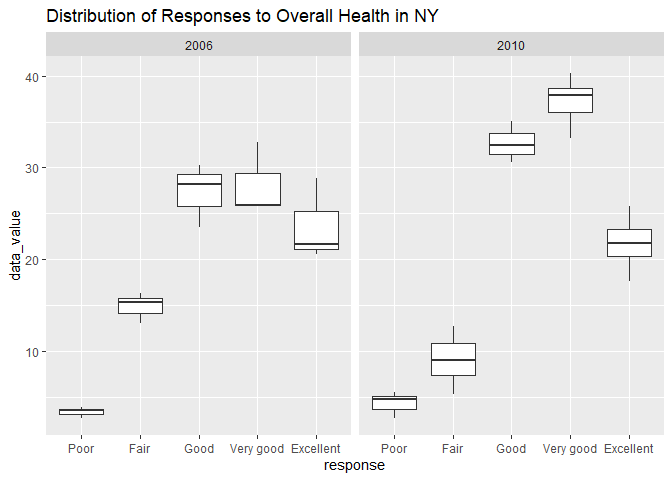
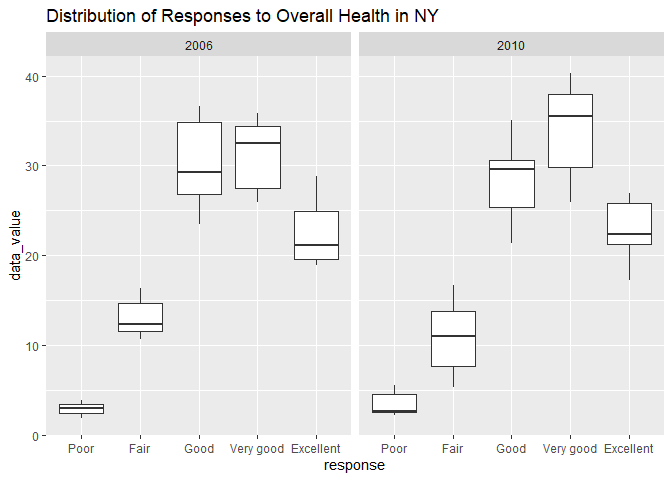
fixed descriptions

diff --git a/p8105_hw3_yo2336.md b/p8105_hw3_yo2336.md
@@ -322,16 +322,13 @@ year.
 
 ``` r
 overall_health %>%
-  filter(state == "NY", year == c(2006, 2010)) %>%
+  filter(state == "NY", year %in% c(2006, 2010)) %>%
   select(year, state, response, data_value) %>%
   ggplot(aes(x = response, y = data_value)) +
   geom_boxplot() +
   facet_grid(. ~ year) +
   labs(title = "Distribution of Responses to Overall Health in NY")
 ```
-
-    ## Warning in year == c(2006, 2010): longer object length is not a multiple of
-    ## shorter object length
 
 ![](p8105_hw3_yo2336_files/figure-gfm/unnamed-chunk-10-1.png)<!-- -->
 
@@ -379,372 +376,6 @@ ncol(accel_df)
 ```
 
     ## [1] 1444
-
-``` r
-names(accel_df)
-```
-
-    ##    [1] "week"          "day_id"        "day"           "week_type"    
-    ##    [5] "activity_1"    "activity_2"    "activity_3"    "activity_4"   
-    ##    [9] "activity_5"    "activity_6"    "activity_7"    "activity_8"   
-    ##   [13] "activity_9"    "activity_10"   "activity_11"   "activity_12"  
-    ##   [17] "activity_13"   "activity_14"   "activity_15"   "activity_16"  
-    ##   [21] "activity_17"   "activity_18"   "activity_19"   "activity_20"  
-    ##   [25] "activity_21"   "activity_22"   "activity_23"   "activity_24"  
-    ##   [29] "activity_25"   "activity_26"   "activity_27"   "activity_28"  
-    ##   [33] "activity_29"   "activity_30"   "activity_31"   "activity_32"  
-    ##   [37] "activity_33"   "activity_34"   "activity_35"   "activity_36"  
-    ##   [41] "activity_37"   "activity_38"   "activity_39"   "activity_40"  
-    ##   [45] "activity_41"   "activity_42"   "activity_43"   "activity_44"  
-    ##   [49] "activity_45"   "activity_46"   "activity_47"   "activity_48"  
-    ##   [53] "activity_49"   "activity_50"   "activity_51"   "activity_52"  
-    ##   [57] "activity_53"   "activity_54"   "activity_55"   "activity_56"  
-    ##   [61] "activity_57"   "activity_58"   "activity_59"   "activity_60"  
-    ##   [65] "activity_61"   "activity_62"   "activity_63"   "activity_64"  
-    ##   [69] "activity_65"   "activity_66"   "activity_67"   "activity_68"  
-    ##   [73] "activity_69"   "activity_70"   "activity_71"   "activity_72"  
-    ##   [77] "activity_73"   "activity_74"   "activity_75"   "activity_76"  
-    ##   [81] "activity_77"   "activity_78"   "activity_79"   "activity_80"  
-    ##   [85] "activity_81"   "activity_82"   "activity_83"   "activity_84"  
-    ##   [89] "activity_85"   "activity_86"   "activity_87"   "activity_88"  
-    ##   [93] "activity_89"   "activity_90"   "activity_91"   "activity_92"  
-    ##   [97] "activity_93"   "activity_94"   "activity_95"   "activity_96"  
-    ##  [101] "activity_97"   "activity_98"   "activity_99"   "activity_100" 
-    ##  [105] "activity_101"  "activity_102"  "activity_103"  "activity_104" 
-    ##  [109] "activity_105"  "activity_106"  "activity_107"  "activity_108" 
-    ##  [113] "activity_109"  "activity_110"  "activity_111"  "activity_112" 
-    ##  [117] "activity_113"  "activity_114"  "activity_115"  "activity_116" 
-    ##  [121] "activity_117"  "activity_118"  "activity_119"  "activity_120" 
-    ##  [125] "activity_121"  "activity_122"  "activity_123"  "activity_124" 
-    ##  [129] "activity_125"  "activity_126"  "activity_127"  "activity_128" 
-    ##  [133] "activity_129"  "activity_130"  "activity_131"  "activity_132" 
-    ##  [137] "activity_133"  "activity_134"  "activity_135"  "activity_136" 
-    ##  [141] "activity_137"  "activity_138"  "activity_139"  "activity_140" 
-    ##  [145] "activity_141"  "activity_142"  "activity_143"  "activity_144" 
-    ##  [149] "activity_145"  "activity_146"  "activity_147"  "activity_148" 
-    ##  [153] "activity_149"  "activity_150"  "activity_151"  "activity_152" 
-    ##  [157] "activity_153"  "activity_154"  "activity_155"  "activity_156" 
-    ##  [161] "activity_157"  "activity_158"  "activity_159"  "activity_160" 
-    ##  [165] "activity_161"  "activity_162"  "activity_163"  "activity_164" 
-    ##  [169] "activity_165"  "activity_166"  "activity_167"  "activity_168" 
-    ##  [173] "activity_169"  "activity_170"  "activity_171"  "activity_172" 
-    ##  [177] "activity_173"  "activity_174"  "activity_175"  "activity_176" 
-    ##  [181] "activity_177"  "activity_178"  "activity_179"  "activity_180" 
-    ##  [185] "activity_181"  "activity_182"  "activity_183"  "activity_184" 
-    ##  [189] "activity_185"  "activity_186"  "activity_187"  "activity_188" 
-    ##  [193] "activity_189"  "activity_190"  "activity_191"  "activity_192" 
-    ##  [197] "activity_193"  "activity_194"  "activity_195"  "activity_196" 
-    ##  [201] "activity_197"  "activity_198"  "activity_199"  "activity_200" 
-    ##  [205] "activity_201"  "activity_202"  "activity_203"  "activity_204" 
-    ##  [209] "activity_205"  "activity_206"  "activity_207"  "activity_208" 
-    ##  [213] "activity_209"  "activity_210"  "activity_211"  "activity_212" 
-    ##  [217] "activity_213"  "activity_214"  "activity_215"  "activity_216" 
-    ##  [221] "activity_217"  "activity_218"  "activity_219"  "activity_220" 
-    ##  [225] "activity_221"  "activity_222"  "activity_223"  "activity_224" 
-    ##  [229] "activity_225"  "activity_226"  "activity_227"  "activity_228" 
-    ##  [233] "activity_229"  "activity_230"  "activity_231"  "activity_232" 
-    ##  [237] "activity_233"  "activity_234"  "activity_235"  "activity_236" 
-    ##  [241] "activity_237"  "activity_238"  "activity_239"  "activity_240" 
-    ##  [245] "activity_241"  "activity_242"  "activity_243"  "activity_244" 
-    ##  [249] "activity_245"  "activity_246"  "activity_247"  "activity_248" 
-    ##  [253] "activity_249"  "activity_250"  "activity_251"  "activity_252" 
-    ##  [257] "activity_253"  "activity_254"  "activity_255"  "activity_256" 
-    ##  [261] "activity_257"  "activity_258"  "activity_259"  "activity_260" 
-    ##  [265] "activity_261"  "activity_262"  "activity_263"  "activity_264" 
-    ##  [269] "activity_265"  "activity_266"  "activity_267"  "activity_268" 
-    ##  [273] "activity_269"  "activity_270"  "activity_271"  "activity_272" 
-    ##  [277] "activity_273"  "activity_274"  "activity_275"  "activity_276" 
-    ##  [281] "activity_277"  "activity_278"  "activity_279"  "activity_280" 
-    ##  [285] "activity_281"  "activity_282"  "activity_283"  "activity_284" 
-    ##  [289] "activity_285"  "activity_286"  "activity_287"  "activity_288" 
-    ##  [293] "activity_289"  "activity_290"  "activity_291"  "activity_292" 
-    ##  [297] "activity_293"  "activity_294"  "activity_295"  "activity_296" 
-    ##  [301] "activity_297"  "activity_298"  "activity_299"  "activity_300" 
-    ##  [305] "activity_301"  "activity_302"  "activity_303"  "activity_304" 
-    ##  [309] "activity_305"  "activity_306"  "activity_307"  "activity_308" 
-    ##  [313] "activity_309"  "activity_310"  "activity_311"  "activity_312" 
-    ##  [317] "activity_313"  "activity_314"  "activity_315"  "activity_316" 
-    ##  [321] "activity_317"  "activity_318"  "activity_319"  "activity_320" 
-    ##  [325] "activity_321"  "activity_322"  "activity_323"  "activity_324" 
-    ##  [329] "activity_325"  "activity_326"  "activity_327"  "activity_328" 
-    ##  [333] "activity_329"  "activity_330"  "activity_331"  "activity_332" 
-    ##  [337] "activity_333"  "activity_334"  "activity_335"  "activity_336" 
-    ##  [341] "activity_337"  "activity_338"  "activity_339"  "activity_340" 
-    ##  [345] "activity_341"  "activity_342"  "activity_343"  "activity_344" 
-    ##  [349] "activity_345"  "activity_346"  "activity_347"  "activity_348" 
-    ##  [353] "activity_349"  "activity_350"  "activity_351"  "activity_352" 
-    ##  [357] "activity_353"  "activity_354"  "activity_355"  "activity_356" 
-    ##  [361] "activity_357"  "activity_358"  "activity_359"  "activity_360" 
-    ##  [365] "activity_361"  "activity_362"  "activity_363"  "activity_364" 
-    ##  [369] "activity_365"  "activity_366"  "activity_367"  "activity_368" 
-    ##  [373] "activity_369"  "activity_370"  "activity_371"  "activity_372" 
-    ##  [377] "activity_373"  "activity_374"  "activity_375"  "activity_376" 
-    ##  [381] "activity_377"  "activity_378"  "activity_379"  "activity_380" 
-    ##  [385] "activity_381"  "activity_382"  "activity_383"  "activity_384" 
-    ##  [389] "activity_385"  "activity_386"  "activity_387"  "activity_388" 
-    ##  [393] "activity_389"  "activity_390"  "activity_391"  "activity_392" 
-    ##  [397] "activity_393"  "activity_394"  "activity_395"  "activity_396" 
-    ##  [401] "activity_397"  "activity_398"  "activity_399"  "activity_400" 
-    ##  [405] "activity_401"  "activity_402"  "activity_403"  "activity_404" 
-    ##  [409] "activity_405"  "activity_406"  "activity_407"  "activity_408" 
-    ##  [413] "activity_409"  "activity_410"  "activity_411"  "activity_412" 
-    ##  [417] "activity_413"  "activity_414"  "activity_415"  "activity_416" 
-    ##  [421] "activity_417"  "activity_418"  "activity_419"  "activity_420" 
-    ##  [425] "activity_421"  "activity_422"  "activity_423"  "activity_424" 
-    ##  [429] "activity_425"  "activity_426"  "activity_427"  "activity_428" 
-    ##  [433] "activity_429"  "activity_430"  "activity_431"  "activity_432" 
-    ##  [437] "activity_433"  "activity_434"  "activity_435"  "activity_436" 
-    ##  [441] "activity_437"  "activity_438"  "activity_439"  "activity_440" 
-    ##  [445] "activity_441"  "activity_442"  "activity_443"  "activity_444" 
-    ##  [449] "activity_445"  "activity_446"  "activity_447"  "activity_448" 
-    ##  [453] "activity_449"  "activity_450"  "activity_451"  "activity_452" 
-    ##  [457] "activity_453"  "activity_454"  "activity_455"  "activity_456" 
-    ##  [461] "activity_457"  "activity_458"  "activity_459"  "activity_460" 
-    ##  [465] "activity_461"  "activity_462"  "activity_463"  "activity_464" 
-    ##  [469] "activity_465"  "activity_466"  "activity_467"  "activity_468" 
-    ##  [473] "activity_469"  "activity_470"  "activity_471"  "activity_472" 
-    ##  [477] "activity_473"  "activity_474"  "activity_475"  "activity_476" 
-    ##  [481] "activity_477"  "activity_478"  "activity_479"  "activity_480" 
-    ##  [485] "activity_481"  "activity_482"  "activity_483"  "activity_484" 
-    ##  [489] "activity_485"  "activity_486"  "activity_487"  "activity_488" 
-    ##  [493] "activity_489"  "activity_490"  "activity_491"  "activity_492" 
-    ##  [497] "activity_493"  "activity_494"  "activity_495"  "activity_496" 
-    ##  [501] "activity_497"  "activity_498"  "activity_499"  "activity_500" 
-    ##  [505] "activity_501"  "activity_502"  "activity_503"  "activity_504" 
-    ##  [509] "activity_505"  "activity_506"  "activity_507"  "activity_508" 
-    ##  [513] "activity_509"  "activity_510"  "activity_511"  "activity_512" 
-    ##  [517] "activity_513"  "activity_514"  "activity_515"  "activity_516" 
-    ##  [521] "activity_517"  "activity_518"  "activity_519"  "activity_520" 
-    ##  [525] "activity_521"  "activity_522"  "activity_523"  "activity_524" 
-    ##  [529] "activity_525"  "activity_526"  "activity_527"  "activity_528" 
-    ##  [533] "activity_529"  "activity_530"  "activity_531"  "activity_532" 
-    ##  [537] "activity_533"  "activity_534"  "activity_535"  "activity_536" 
-    ##  [541] "activity_537"  "activity_538"  "activity_539"  "activity_540" 
-    ##  [545] "activity_541"  "activity_542"  "activity_543"  "activity_544" 
-    ##  [549] "activity_545"  "activity_546"  "activity_547"  "activity_548" 
-    ##  [553] "activity_549"  "activity_550"  "activity_551"  "activity_552" 
-    ##  [557] "activity_553"  "activity_554"  "activity_555"  "activity_556" 
-    ##  [561] "activity_557"  "activity_558"  "activity_559"  "activity_560" 
-    ##  [565] "activity_561"  "activity_562"  "activity_563"  "activity_564" 
-    ##  [569] "activity_565"  "activity_566"  "activity_567"  "activity_568" 
-    ##  [573] "activity_569"  "activity_570"  "activity_571"  "activity_572" 
-    ##  [577] "activity_573"  "activity_574"  "activity_575"  "activity_576" 
-    ##  [581] "activity_577"  "activity_578"  "activity_579"  "activity_580" 
-    ##  [585] "activity_581"  "activity_582"  "activity_583"  "activity_584" 
-    ##  [589] "activity_585"  "activity_586"  "activity_587"  "activity_588" 
-    ##  [593] "activity_589"  "activity_590"  "activity_591"  "activity_592" 
-    ##  [597] "activity_593"  "activity_594"  "activity_595"  "activity_596" 
-    ##  [601] "activity_597"  "activity_598"  "activity_599"  "activity_600" 
-    ##  [605] "activity_601"  "activity_602"  "activity_603"  "activity_604" 
-    ##  [609] "activity_605"  "activity_606"  "activity_607"  "activity_608" 
-    ##  [613] "activity_609"  "activity_610"  "activity_611"  "activity_612" 
-    ##  [617] "activity_613"  "activity_614"  "activity_615"  "activity_616" 
-    ##  [621] "activity_617"  "activity_618"  "activity_619"  "activity_620" 
-    ##  [625] "activity_621"  "activity_622"  "activity_623"  "activity_624" 
-    ##  [629] "activity_625"  "activity_626"  "activity_627"  "activity_628" 
-    ##  [633] "activity_629"  "activity_630"  "activity_631"  "activity_632" 
-    ##  [637] "activity_633"  "activity_634"  "activity_635"  "activity_636" 
-    ##  [641] "activity_637"  "activity_638"  "activity_639"  "activity_640" 
-    ##  [645] "activity_641"  "activity_642"  "activity_643"  "activity_644" 
-    ##  [649] "activity_645"  "activity_646"  "activity_647"  "activity_648" 
-    ##  [653] "activity_649"  "activity_650"  "activity_651"  "activity_652" 
-    ##  [657] "activity_653"  "activity_654"  "activity_655"  "activity_656" 
-    ##  [661] "activity_657"  "activity_658"  "activity_659"  "activity_660" 
-    ##  [665] "activity_661"  "activity_662"  "activity_663"  "activity_664" 
-    ##  [669] "activity_665"  "activity_666"  "activity_667"  "activity_668" 
-    ##  [673] "activity_669"  "activity_670"  "activity_671"  "activity_672" 
-    ##  [677] "activity_673"  "activity_674"  "activity_675"  "activity_676" 
-    ##  [681] "activity_677"  "activity_678"  "activity_679"  "activity_680" 
-    ##  [685] "activity_681"  "activity_682"  "activity_683"  "activity_684" 
-    ##  [689] "activity_685"  "activity_686"  "activity_687"  "activity_688" 
-    ##  [693] "activity_689"  "activity_690"  "activity_691"  "activity_692" 
-    ##  [697] "activity_693"  "activity_694"  "activity_695"  "activity_696" 
-    ##  [701] "activity_697"  "activity_698"  "activity_699"  "activity_700" 
-    ##  [705] "activity_701"  "activity_702"  "activity_703"  "activity_704" 
-    ##  [709] "activity_705"  "activity_706"  "activity_707"  "activity_708" 
-    ##  [713] "activity_709"  "activity_710"  "activity_711"  "activity_712" 
-    ##  [717] "activity_713"  "activity_714"  "activity_715"  "activity_716" 
-    ##  [721] "activity_717"  "activity_718"  "activity_719"  "activity_720" 
-    ##  [725] "activity_721"  "activity_722"  "activity_723"  "activity_724" 
-    ##  [729] "activity_725"  "activity_726"  "activity_727"  "activity_728" 
-    ##  [733] "activity_729"  "activity_730"  "activity_731"  "activity_732" 
-    ##  [737] "activity_733"  "activity_734"  "activity_735"  "activity_736" 
-    ##  [741] "activity_737"  "activity_738"  "activity_739"  "activity_740" 
-    ##  [745] "activity_741"  "activity_742"  "activity_743"  "activity_744" 
-    ##  [749] "activity_745"  "activity_746"  "activity_747"  "activity_748" 
-    ##  [753] "activity_749"  "activity_750"  "activity_751"  "activity_752" 
-    ##  [757] "activity_753"  "activity_754"  "activity_755"  "activity_756" 
-    ##  [761] "activity_757"  "activity_758"  "activity_759"  "activity_760" 
-    ##  [765] "activity_761"  "activity_762"  "activity_763"  "activity_764" 
-    ##  [769] "activity_765"  "activity_766"  "activity_767"  "activity_768" 
-    ##  [773] "activity_769"  "activity_770"  "activity_771"  "activity_772" 
-    ##  [777] "activity_773"  "activity_774"  "activity_775"  "activity_776" 
-    ##  [781] "activity_777"  "activity_778"  "activity_779"  "activity_780" 
-    ##  [785] "activity_781"  "activity_782"  "activity_783"  "activity_784" 
-    ##  [789] "activity_785"  "activity_786"  "activity_787"  "activity_788" 
-    ##  [793] "activity_789"  "activity_790"  "activity_791"  "activity_792" 
-    ##  [797] "activity_793"  "activity_794"  "activity_795"  "activity_796" 
-    ##  [801] "activity_797"  "activity_798"  "activity_799"  "activity_800" 
-    ##  [805] "activity_801"  "activity_802"  "activity_803"  "activity_804" 
-    ##  [809] "activity_805"  "activity_806"  "activity_807"  "activity_808" 
-    ##  [813] "activity_809"  "activity_810"  "activity_811"  "activity_812" 
-    ##  [817] "activity_813"  "activity_814"  "activity_815"  "activity_816" 
-    ##  [821] "activity_817"  "activity_818"  "activity_819"  "activity_820" 
-    ##  [825] "activity_821"  "activity_822"  "activity_823"  "activity_824" 
-    ##  [829] "activity_825"  "activity_826"  "activity_827"  "activity_828" 
-    ##  [833] "activity_829"  "activity_830"  "activity_831"  "activity_832" 
-    ##  [837] "activity_833"  "activity_834"  "activity_835"  "activity_836" 
-    ##  [841] "activity_837"  "activity_838"  "activity_839"  "activity_840" 
-    ##  [845] "activity_841"  "activity_842"  "activity_843"  "activity_844" 
-    ##  [849] "activity_845"  "activity_846"  "activity_847"  "activity_848" 
-    ##  [853] "activity_849"  "activity_850"  "activity_851"  "activity_852" 
-    ##  [857] "activity_853"  "activity_854"  "activity_855"  "activity_856" 
-    ##  [861] "activity_857"  "activity_858"  "activity_859"  "activity_860" 
-    ##  [865] "activity_861"  "activity_862"  "activity_863"  "activity_864" 
-    ##  [869] "activity_865"  "activity_866"  "activity_867"  "activity_868" 
-    ##  [873] "activity_869"  "activity_870"  "activity_871"  "activity_872" 
-    ##  [877] "activity_873"  "activity_874"  "activity_875"  "activity_876" 
-    ##  [881] "activity_877"  "activity_878"  "activity_879"  "activity_880" 
-    ##  [885] "activity_881"  "activity_882"  "activity_883"  "activity_884" 
-    ##  [889] "activity_885"  "activity_886"  "activity_887"  "activity_888" 
-    ##  [893] "activity_889"  "activity_890"  "activity_891"  "activity_892" 
-    ##  [897] "activity_893"  "activity_894"  "activity_895"  "activity_896" 
-    ##  [901] "activity_897"  "activity_898"  "activity_899"  "activity_900" 
-    ##  [905] "activity_901"  "activity_902"  "activity_903"  "activity_904" 
-    ##  [909] "activity_905"  "activity_906"  "activity_907"  "activity_908" 
-    ##  [913] "activity_909"  "activity_910"  "activity_911"  "activity_912" 
-    ##  [917] "activity_913"  "activity_914"  "activity_915"  "activity_916" 
-    ##  [921] "activity_917"  "activity_918"  "activity_919"  "activity_920" 
-    ##  [925] "activity_921"  "activity_922"  "activity_923"  "activity_924" 
-    ##  [929] "activity_925"  "activity_926"  "activity_927"  "activity_928" 
-    ##  [933] "activity_929"  "activity_930"  "activity_931"  "activity_932" 
-    ##  [937] "activity_933"  "activity_934"  "activity_935"  "activity_936" 
-    ##  [941] "activity_937"  "activity_938"  "activity_939"  "activity_940" 
-    ##  [945] "activity_941"  "activity_942"  "activity_943"  "activity_944" 
-    ##  [949] "activity_945"  "activity_946"  "activity_947"  "activity_948" 
-    ##  [953] "activity_949"  "activity_950"  "activity_951"  "activity_952" 
-    ##  [957] "activity_953"  "activity_954"  "activity_955"  "activity_956" 
-    ##  [961] "activity_957"  "activity_958"  "activity_959"  "activity_960" 
-    ##  [965] "activity_961"  "activity_962"  "activity_963"  "activity_964" 
-    ##  [969] "activity_965"  "activity_966"  "activity_967"  "activity_968" 
-    ##  [973] "activity_969"  "activity_970"  "activity_971"  "activity_972" 
-    ##  [977] "activity_973"  "activity_974"  "activity_975"  "activity_976" 
-    ##  [981] "activity_977"  "activity_978"  "activity_979"  "activity_980" 
-    ##  [985] "activity_981"  "activity_982"  "activity_983"  "activity_984" 
-    ##  [989] "activity_985"  "activity_986"  "activity_987"  "activity_988" 
-    ##  [993] "activity_989"  "activity_990"  "activity_991"  "activity_992" 
-    ##  [997] "activity_993"  "activity_994"  "activity_995"  "activity_996" 
-    ## [1001] "activity_997"  "activity_998"  "activity_999"  "activity_1000"
-    ## [1005] "activity_1001" "activity_1002" "activity_1003" "activity_1004"
-    ## [1009] "activity_1005" "activity_1006" "activity_1007" "activity_1008"
-    ## [1013] "activity_1009" "activity_1010" "activity_1011" "activity_1012"
-    ## [1017] "activity_1013" "activity_1014" "activity_1015" "activity_1016"
-    ## [1021] "activity_1017" "activity_1018" "activity_1019" "activity_1020"
-    ## [1025] "activity_1021" "activity_1022" "activity_1023" "activity_1024"
-    ## [1029] "activity_1025" "activity_1026" "activity_1027" "activity_1028"
-    ## [1033] "activity_1029" "activity_1030" "activity_1031" "activity_1032"
-    ## [1037] "activity_1033" "activity_1034" "activity_1035" "activity_1036"
-    ## [1041] "activity_1037" "activity_1038" "activity_1039" "activity_1040"
-    ## [1045] "activity_1041" "activity_1042" "activity_1043" "activity_1044"
-    ## [1049] "activity_1045" "activity_1046" "activity_1047" "activity_1048"
-    ## [1053] "activity_1049" "activity_1050" "activity_1051" "activity_1052"
-    ## [1057] "activity_1053" "activity_1054" "activity_1055" "activity_1056"
-    ## [1061] "activity_1057" "activity_1058" "activity_1059" "activity_1060"
-    ## [1065] "activity_1061" "activity_1062" "activity_1063" "activity_1064"
-    ## [1069] "activity_1065" "activity_1066" "activity_1067" "activity_1068"
-    ## [1073] "activity_1069" "activity_1070" "activity_1071" "activity_1072"
-    ## [1077] "activity_1073" "activity_1074" "activity_1075" "activity_1076"
-    ## [1081] "activity_1077" "activity_1078" "activity_1079" "activity_1080"
-    ## [1085] "activity_1081" "activity_1082" "activity_1083" "activity_1084"
-    ## [1089] "activity_1085" "activity_1086" "activity_1087" "activity_1088"
-    ## [1093] "activity_1089" "activity_1090" "activity_1091" "activity_1092"
-    ## [1097] "activity_1093" "activity_1094" "activity_1095" "activity_1096"
-    ## [1101] "activity_1097" "activity_1098" "activity_1099" "activity_1100"
-    ## [1105] "activity_1101" "activity_1102" "activity_1103" "activity_1104"
-    ## [1109] "activity_1105" "activity_1106" "activity_1107" "activity_1108"
-    ## [1113] "activity_1109" "activity_1110" "activity_1111" "activity_1112"
-    ## [1117] "activity_1113" "activity_1114" "activity_1115" "activity_1116"
-    ## [1121] "activity_1117" "activity_1118" "activity_1119" "activity_1120"
-    ## [1125] "activity_1121" "activity_1122" "activity_1123" "activity_1124"
-    ## [1129] "activity_1125" "activity_1126" "activity_1127" "activity_1128"
-    ## [1133] "activity_1129" "activity_1130" "activity_1131" "activity_1132"
-    ## [1137] "activity_1133" "activity_1134" "activity_1135" "activity_1136"
-    ## [1141] "activity_1137" "activity_1138" "activity_1139" "activity_1140"
-    ## [1145] "activity_1141" "activity_1142" "activity_1143" "activity_1144"
-    ## [1149] "activity_1145" "activity_1146" "activity_1147" "activity_1148"
-    ## [1153] "activity_1149" "activity_1150" "activity_1151" "activity_1152"
-    ## [1157] "activity_1153" "activity_1154" "activity_1155" "activity_1156"
-    ## [1161] "activity_1157" "activity_1158" "activity_1159" "activity_1160"
-    ## [1165] "activity_1161" "activity_1162" "activity_1163" "activity_1164"
-    ## [1169] "activity_1165" "activity_1166" "activity_1167" "activity_1168"
-    ## [1173] "activity_1169" "activity_1170" "activity_1171" "activity_1172"
-    ## [1177] "activity_1173" "activity_1174" "activity_1175" "activity_1176"
-    ## [1181] "activity_1177" "activity_1178" "activity_1179" "activity_1180"
-    ## [1185] "activity_1181" "activity_1182" "activity_1183" "activity_1184"
-    ## [1189] "activity_1185" "activity_1186" "activity_1187" "activity_1188"
-    ## [1193] "activity_1189" "activity_1190" "activity_1191" "activity_1192"
-    ## [1197] "activity_1193" "activity_1194" "activity_1195" "activity_1196"
-    ## [1201] "activity_1197" "activity_1198" "activity_1199" "activity_1200"
-    ## [1205] "activity_1201" "activity_1202" "activity_1203" "activity_1204"
-    ## [1209] "activity_1205" "activity_1206" "activity_1207" "activity_1208"
-    ## [1213] "activity_1209" "activity_1210" "activity_1211" "activity_1212"
-    ## [1217] "activity_1213" "activity_1214" "activity_1215" "activity_1216"
-    ## [1221] "activity_1217" "activity_1218" "activity_1219" "activity_1220"
-    ## [1225] "activity_1221" "activity_1222" "activity_1223" "activity_1224"
-    ## [1229] "activity_1225" "activity_1226" "activity_1227" "activity_1228"
-    ## [1233] "activity_1229" "activity_1230" "activity_1231" "activity_1232"
-    ## [1237] "activity_1233" "activity_1234" "activity_1235" "activity_1236"
-    ## [1241] "activity_1237" "activity_1238" "activity_1239" "activity_1240"
-    ## [1245] "activity_1241" "activity_1242" "activity_1243" "activity_1244"
-    ## [1249] "activity_1245" "activity_1246" "activity_1247" "activity_1248"
-    ## [1253] "activity_1249" "activity_1250" "activity_1251" "activity_1252"
-    ## [1257] "activity_1253" "activity_1254" "activity_1255" "activity_1256"
-    ## [1261] "activity_1257" "activity_1258" "activity_1259" "activity_1260"
-    ## [1265] "activity_1261" "activity_1262" "activity_1263" "activity_1264"
-    ## [1269] "activity_1265" "activity_1266" "activity_1267" "activity_1268"
-    ## [1273] "activity_1269" "activity_1270" "activity_1271" "activity_1272"
-    ## [1277] "activity_1273" "activity_1274" "activity_1275" "activity_1276"
-    ## [1281] "activity_1277" "activity_1278" "activity_1279" "activity_1280"
-    ## [1285] "activity_1281" "activity_1282" "activity_1283" "activity_1284"
-    ## [1289] "activity_1285" "activity_1286" "activity_1287" "activity_1288"
-    ## [1293] "activity_1289" "activity_1290" "activity_1291" "activity_1292"
-    ## [1297] "activity_1293" "activity_1294" "activity_1295" "activity_1296"
-    ## [1301] "activity_1297" "activity_1298" "activity_1299" "activity_1300"
-    ## [1305] "activity_1301" "activity_1302" "activity_1303" "activity_1304"
-    ## [1309] "activity_1305" "activity_1306" "activity_1307" "activity_1308"
-    ## [1313] "activity_1309" "activity_1310" "activity_1311" "activity_1312"
-    ## [1317] "activity_1313" "activity_1314" "activity_1315" "activity_1316"
-    ## [1321] "activity_1317" "activity_1318" "activity_1319" "activity_1320"
-    ## [1325] "activity_1321" "activity_1322" "activity_1323" "activity_1324"
-    ## [1329] "activity_1325" "activity_1326" "activity_1327" "activity_1328"
-    ## [1333] "activity_1329" "activity_1330" "activity_1331" "activity_1332"
-    ## [1337] "activity_1333" "activity_1334" "activity_1335" "activity_1336"
-    ## [1341] "activity_1337" "activity_1338" "activity_1339" "activity_1340"
-    ## [1345] "activity_1341" "activity_1342" "activity_1343" "activity_1344"
-    ## [1349] "activity_1345" "activity_1346" "activity_1347" "activity_1348"
-    ## [1353] "activity_1349" "activity_1350" "activity_1351" "activity_1352"
-    ## [1357] "activity_1353" "activity_1354" "activity_1355" "activity_1356"
-    ## [1361] "activity_1357" "activity_1358" "activity_1359" "activity_1360"
-    ## [1365] "activity_1361" "activity_1362" "activity_1363" "activity_1364"
-    ## [1369] "activity_1365" "activity_1366" "activity_1367" "activity_1368"
-    ## [1373] "activity_1369" "activity_1370" "activity_1371" "activity_1372"
-    ## [1377] "activity_1373" "activity_1374" "activity_1375" "activity_1376"
-    ## [1381] "activity_1377" "activity_1378" "activity_1379" "activity_1380"
-    ## [1385] "activity_1381" "activity_1382" "activity_1383" "activity_1384"
-    ## [1389] "activity_1385" "activity_1386" "activity_1387" "activity_1388"
-    ## [1393] "activity_1389" "activity_1390" "activity_1391" "activity_1392"
-    ## [1397] "activity_1393" "activity_1394" "activity_1395" "activity_1396"
-    ## [1401] "activity_1397" "activity_1398" "activity_1399" "activity_1400"
-    ## [1405] "activity_1401" "activity_1402" "activity_1403" "activity_1404"
-    ## [1409] "activity_1405" "activity_1406" "activity_1407" "activity_1408"
-    ## [1413] "activity_1409" "activity_1410" "activity_1411" "activity_1412"
-    ## [1417] "activity_1413" "activity_1414" "activity_1415" "activity_1416"
-    ## [1421] "activity_1417" "activity_1418" "activity_1419" "activity_1420"
-    ## [1425] "activity_1421" "activity_1422" "activity_1423" "activity_1424"
-    ## [1429] "activity_1425" "activity_1426" "activity_1427" "activity_1428"
-    ## [1433] "activity_1429" "activity_1430" "activity_1431" "activity_1432"
-    ## [1437] "activity_1433" "activity_1434" "activity_1435" "activity_1436"
-    ## [1441] "activity_1437" "activity_1438" "activity_1439" "activity_1440"
 
 The accelerometer data has total of 1444 variables for week, day, and
 activity per minute (total 1440 for each minute) the 24 hour period each
